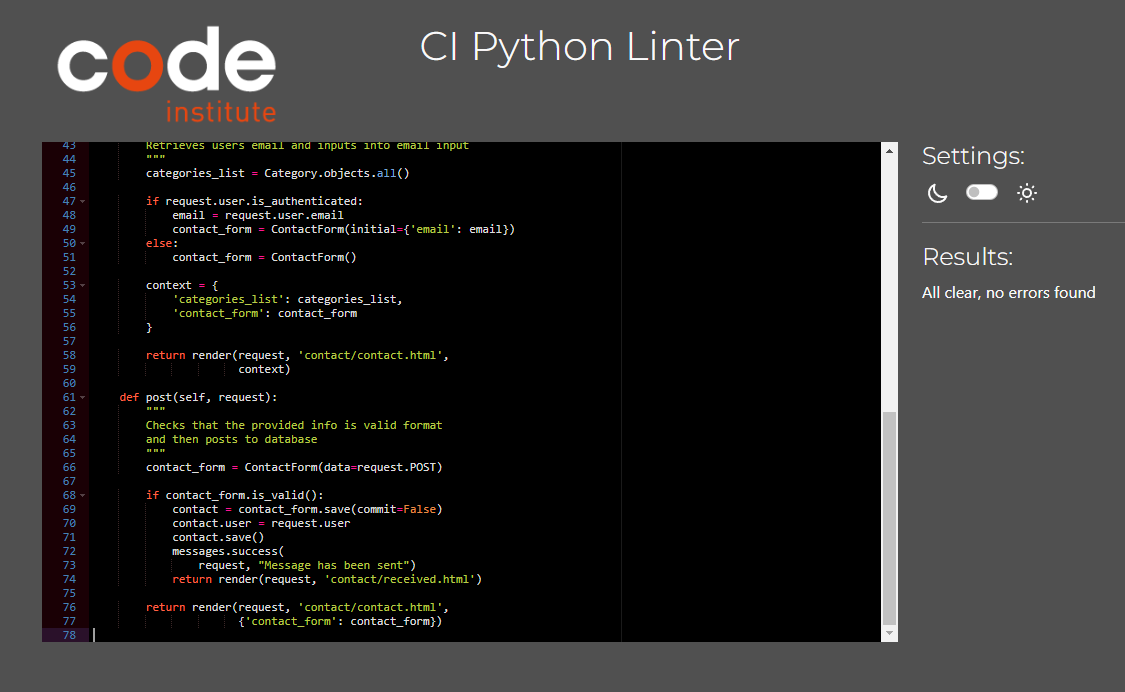
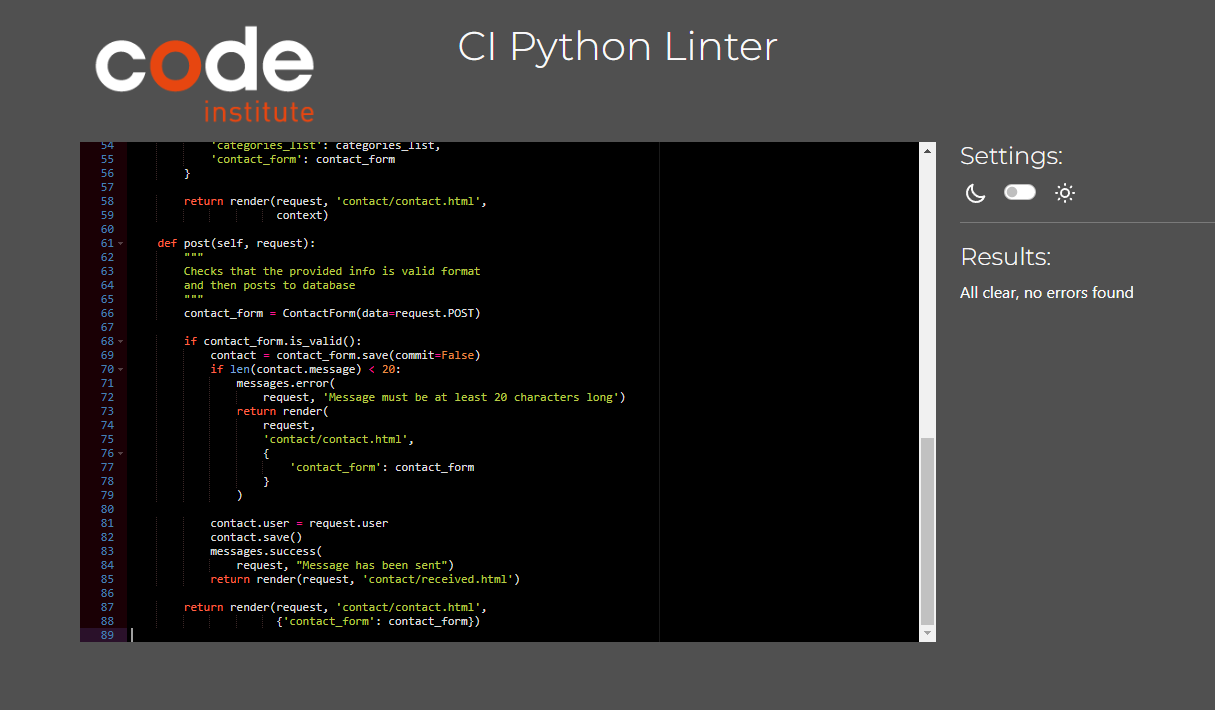
Add error message to contact message view to display is the message is under 20 chars

Changed region(s): [[0.0311, 0.0303, 0.9644, 0.9408], [0.3733, 0.0303, 0.6533, 0.091]]

diff --git a/contact/templates/contact/contact.html b/contact/templates/contact/contact.html
@@ -16,7 +16,7 @@
     <div class="row bg-light my-5 p-3 rounded">
         <div class="col">
             <div class="row d-flex my-5 justify-content-center bg-light rounded">
-                <div class="row mt-5">
+                <div class="row my-5">
                     <div class="col-12 col-md-8 col-xl-5 mx-auto d-block">
                         <div class="row">
                             <div class="col-12 p-5 bg-light rounded send-message text-white">
@@ -67,7 +67,7 @@
                         </div>
                     </div>
                 </div>
-                <div class="col-md-4 col-lg-3 col-xl-3 mx-auto mb-md-0 my-4">
+                <div class="col-md-4 col-lg-3 col-xl-3 mx-auto mb-md-0 my-5">
                     <h3 class="text-uppercase fw-bold mb-4 text-success">Teetime Inc.</h3>
                     <p>Floor 79,</p>
                     <p>Silicon Ave,</p>

diff --git a/contact/views.py b/contact/views.py
@@ -67,6 +67,17 @@ class ContactMessage(View):
 
         if contact_form.is_valid():
             contact = contact_form.save(commit=False)
+            if len(contact.message) < 20:
+                messages.error(
+                    request, 'Message must be at least 20 characters long')
+                return render(
+                    request,
+                    'contact/contact.html',
+                    {
+                        'contact_form': contact_form
+                    }
+                )
+
             contact.user = request.user
             contact.save()
             messages.success(
